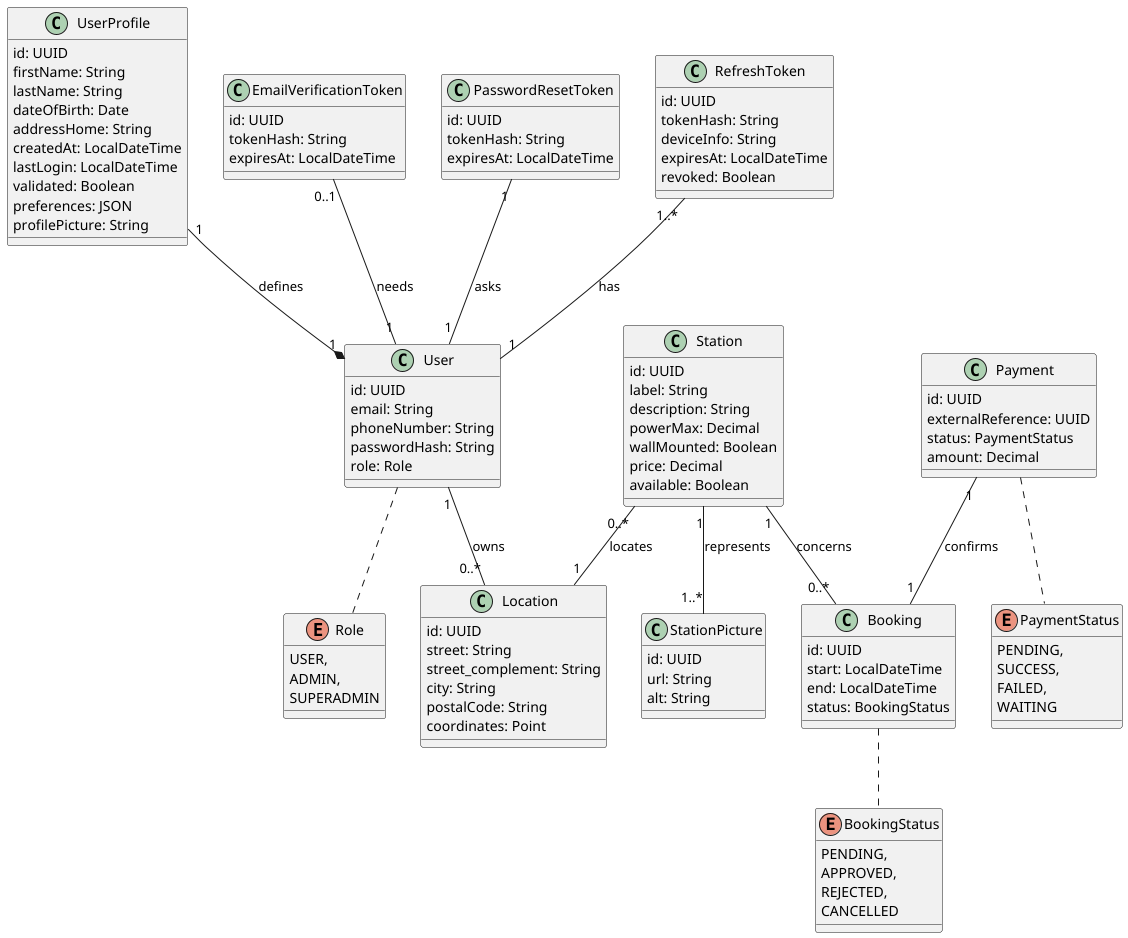
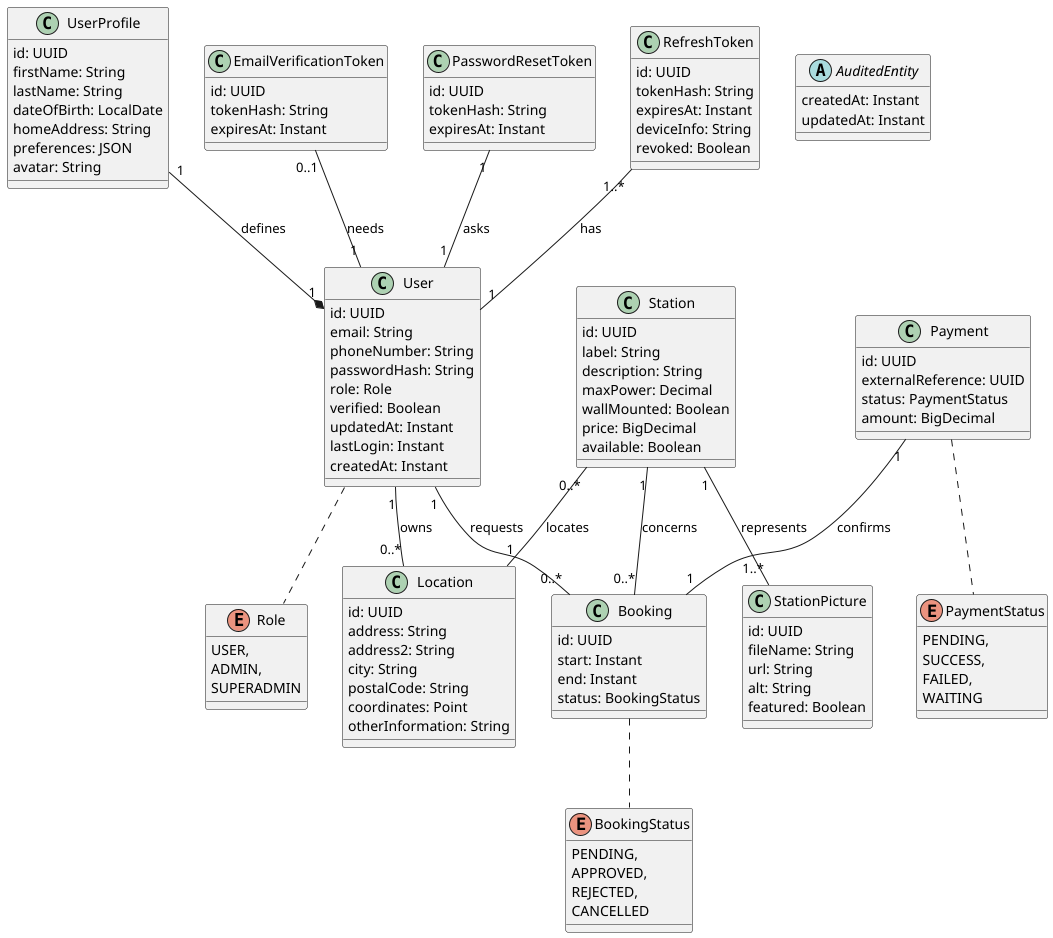
Refactor: rebase & updated Class Diagram

diff --git a/src/main/java/fr/hb/mlang/electricitybusiness/security/SecurityUserDetailsService.java b/src/main/java/fr/hb/mlang/electricitybusiness/security/SecurityUserDetailsService.java
@@ -12,12 +12,12 @@ import org.springframework.security.core.userdetails.UserDetails;
  * Transient adapter that implements {@link UserDetails} and wraps both {@link User} and
  * {@link UserAuth}, exposing their fields while keeping them separate (entity vs authentication).
  */
-public final class SecurityUser implements UserDetails {
+public final class SecurityUserDetailsService implements UserDetails {
 
   private final User user;
   private final UserAuth auth;
 
-  public SecurityUser(User user, UserAuth userAuth) {
+  public SecurityUserDetailsService(User user, UserAuth userAuth) {
     this.user = user;
     this.auth = userAuth;
   }

diff --git a/README.md b/README.md
@@ -380,9 +380,9 @@ APP_DIR=../test-deployment PROFILE=dev ./scripts/deploy.sh
 > set in the project. This needs to be solved before we can run the script without problem. See the
 > snippet below for the exact error message.  
 > Info: after testing & checks, the command `./mvnw -B test` runs properly within the project, but
-> not from the script.  
-> - Project: the maven compiler (./mvnw) is explicitly set to version 21  
-> - Local environment: maven (mvn), java & javac are all set to version 21  
+> not from the script.
+> - Project: the maven compiler (./mvnw) is explicitly set to version 21
+> - Local environment: maven (mvn), java & javac are all set to version 21
 
 ```shell
 [STEP-3] Installing dependencies & running tests...
@@ -439,4 +439,12 @@ Run the script with the following command:
 
 ### UML Class Diagram
 
-![Class Diagram](./assets/class_diagram.png)
+Spécificities :
+
+- Most entities will extend `AuditedEntity` in order to keep track of commonly logged fields such as
+  `createdAt` or `updatedAt`.
+- In our code, `User` will be separated into two entities: `User` and `UserAuth`, and
+  `SecurityUserDetailsService` will implement `UserDetails` and have both entities as fields. That
+  way, we keep both purposes of the entity separate while still being able to use them together.
+
+![Class Diagram](/assets/class_diagram.png)
